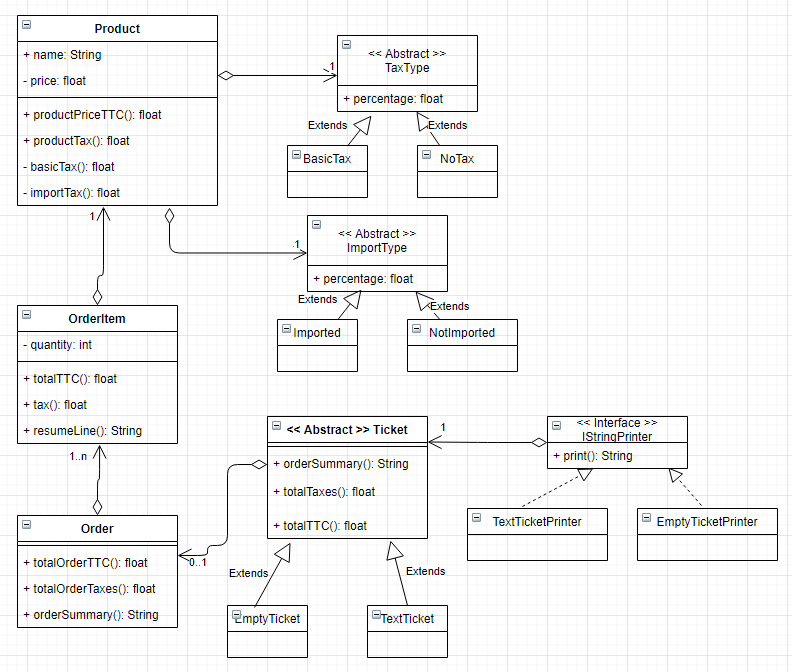
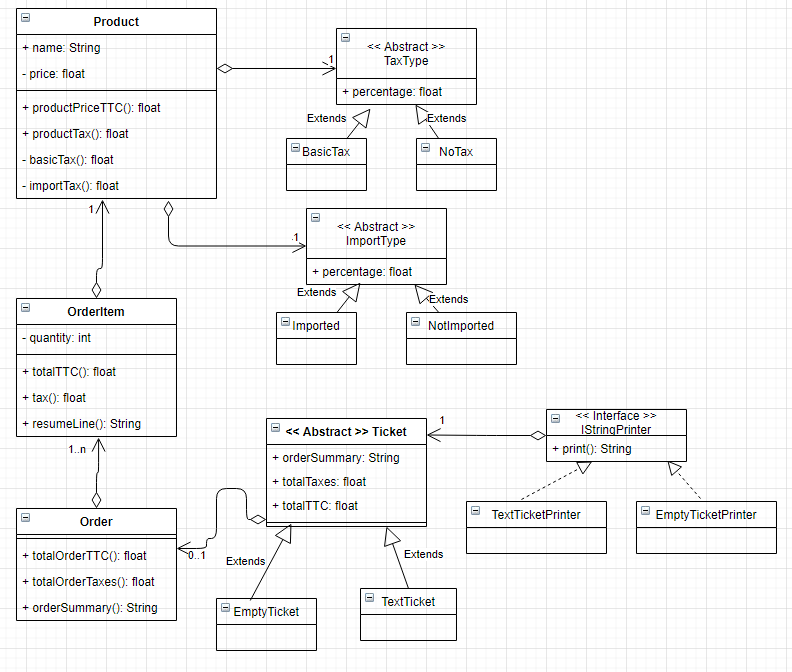
sales: Use properties instead of method in Ticket class

diff --git a/src/com/sales_taxes_prolem/ticket_printing/TextTicketPrinter.kt b/src/com/sales_taxes_prolem/ticket_printing/TextTicketPrinter.kt
@@ -5,9 +5,9 @@ import com.sales_taxes_prolem.utils.Format.withTwoDecimalPoint
 class TextTicketPrinter(override val ticket: TextTicket) : IStringPrinter {
     override fun print(): String {
         val output = StringBuilder()
-        output.appendLine(ticket.orderSummary())
-        output.appendLine("Sales Taxes: ${ticket.totalTaxes().withTwoDecimalPoint()}")
-        output.appendLine("Total: ${ticket.totalTTC().withTwoDecimalPoint()}")
+        output.appendLine(ticket.orderSummary)
+        output.appendLine("Sales Taxes: ${ticket.totalTaxes.withTwoDecimalPoint()}")
+        output.appendLine("Total: ${ticket.totalTTC.withTwoDecimalPoint()}")
         return output.trimEnd().toString()
     }
 }

diff --git a/src/com/sales_taxes_prolem/ticket_printing/EmptyTicketPrinter.kt b/src/com/sales_taxes_prolem/ticket_printing/EmptyTicketPrinter.kt
@@ -3,7 +3,7 @@ package com.sales_taxes_prolem.ticket_printing
 import com.sales_taxes_prolem.utils.Format.withTwoDecimalPoint
 
 class EmptyTicketPrinter(override val ticket: EmptyTicket) : IStringPrinter {
-    override fun print(): String = """Sales Taxes: ${ticket.totalTaxes().withTwoDecimalPoint()}
-                                |Total: ${ticket.totalTTC().withTwoDecimalPoint()}
+    override fun print(): String = """Sales Taxes: ${ticket.totalTaxes.withTwoDecimalPoint()}
+                                |Total: ${ticket.totalTTC.withTwoDecimalPoint()}
                             """.trimMargin()
 }

diff --git a/src/com/sales_taxes_prolem/ticket_printing/TextTicket.kt b/src/com/sales_taxes_prolem/ticket_printing/TextTicket.kt
@@ -2,15 +2,5 @@ package com.sales_taxes_prolem.ticket_printing
 
 import com.sales_taxes_prolem.tax_management.Order
 
-class TextTicket(private val order: Order) : Ticket() {
-    
-    init {
-        ticketOrder = this.order
-    }
-
-    override fun orderSummary(): String = ticketOrder.orderSummary()
-
-    override fun totalTaxes(): Float = ticketOrder.totalOrderTaxes()
-
-    override fun totalTTC(): Float = ticketOrder.totalOrderTTC()
-}
+class TextTicket(order: Order) :
+    Ticket(order.orderSummary(), order.totalOrderTaxes(), order.totalOrderTTC())

diff --git a/src/com/sales_taxes_prolem/ticket_printing/Ticket.kt b/src/com/sales_taxes_prolem/ticket_printing/Ticket.kt
@@ -1,14 +1,3 @@
 package com.sales_taxes_prolem.ticket_printing
 
-import com.sales_taxes_prolem.tax_management.Order
-
-abstract class Ticket() {
-
-    lateinit var ticketOrder: Order
-
-    abstract fun orderSummary(): String
-
-    abstract fun totalTaxes(): Float
-
-    abstract fun totalTTC(): Float
-}
+abstract class Ticket(val orderSummary: String, val totalTaxes: Float, val totalTTC: Float)

diff --git a/src/com/sales_taxes_prolem/ticket_printing/EmptyTicket.kt b/src/com/sales_taxes_prolem/ticket_printing/EmptyTicket.kt
@@ -1,10 +1,3 @@
 package com.sales_taxes_prolem.ticket_printing
 
-class EmptyTicket : Ticket() {
-
-    override fun orderSummary() = ""
-
-    override fun totalTaxes() = 0F
-
-    override fun totalTTC() = 0F
-}
+class EmptyTicket : Ticket("", 0F, 0F)
